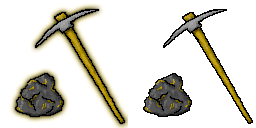
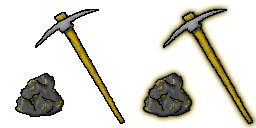
Add app running in background, add button states

diff --git a/src/states/Splash.js b/src/states/Splash.js
@@ -13,13 +13,14 @@ export default class extends Phaser.State {
     //
     // load your assets
     //
-    this.load.spritesheet('footmanButton', './assets/images/FootmanButton.png');
-    this.load.spritesheet('ArcherButton', './assets/images/ArcherButton');
-    this.load.spritesheet('FarmerButton', './assets/images/FarmerButton');
-    this.load.spritesheet('MinerButton', './assets/images/MinerButton');
+    this.load.spritesheet('FootmanButton', './assets/images/FootmanButton.png', 128, 128);
+    this.load.spritesheet('ArcherButton', './assets/images/ArcherButton.png', 128, 128);
+    this.load.spritesheet('FarmerButton', './assets/images/FarmerButton.png', 128, 128);
+    this.load.spritesheet('MinerButton', './assets/images/MinerButton.png', 128, 128);
     this.load.image('attack', 'assets/images/green circle.png');
     this.load.image('player', './assets/images/deathzone.png');
-    this.load.image('button', './assets/images/Button.png');    
+    this.load.image('button', './assets/images/Button.png');
+    this.load.spritesheet('DudeLookingButton', './assets/images/DudeLooking.png', 128, 128);
   }
 
   create () {
@@ -34,6 +35,7 @@ export default class extends Phaser.State {
     banner.anchor.setTo(0.5);
     var _ = this;
     // this.game.input.onDown.add(function(e) {   
+      // Do some cool graphic when changing scene. Curtains? Fading?
       _.state.start('Game');
     // });
   }

diff --git a/src/objects/Button.js b/src/objects/Button.js
@@ -2,7 +2,7 @@ import Phaser from 'phaser'
 
 export class Button extends Phaser.Button {
   constructor (state, x, y, image, scale, func) {
-    super(state.game, x, y, image);
+    super(state.game, x, y, image, func, 2, 1, 3);
     this.state = state;
     this.origScale = scale;
     this.interactable = true;
@@ -10,7 +10,6 @@ export class Button extends Phaser.Button {
     this.anchor.setTo(0.5);
     this.scale.setTo(scale);
     this.inputEnabled = true;
-    this.events.onInputUp.add(func, state);
     this.events.onInputUp.add(this.Up, this);
     this.events.onInputDown.add(this.Down, this);
     this.events.onInputOver.add(this.Over, this);

diff --git a/src/objects/Army/Army.js b/src/objects/Army/Army.js
@@ -46,7 +46,7 @@ export default class {
         this.footmanText = new ArrayLengthText(this.state, this.buyFarmer.x - 20, this.buyFarmer.y + 20, Stats.Farmer.Owned.array, 15);
         
         this.buyMiner = new CostButton(state,
-            x - spacing * 0,
+            x - spacing * 1,
             y - spacing * 1,
             'MinerButton',
             0.3,

diff --git a/src/states/Boot.js b/src/states/Boot.js
@@ -20,7 +20,7 @@ export default class extends Phaser.State {
     text.anchor.setTo(0.5, 0.5)
 
     this.load.image('loaderBg', './assets/images/loader-bg.png')
-    this.load.image('loaderBar', './assets/images/loader-bar.png')
+    this.load.image('loaderBar', './assets/images/loader-bar.png');
   }
 
   render () {

diff --git a/src/states/Game.js b/src/states/Game.js
@@ -17,6 +17,7 @@ export default class extends Phaser.State {
     // Stats
     this.foodPerKill = 0.2;
     this.goldPerKill = 0.7;
+    this.stage.disableVisibilityChange = true;
   }
 
   create () {
